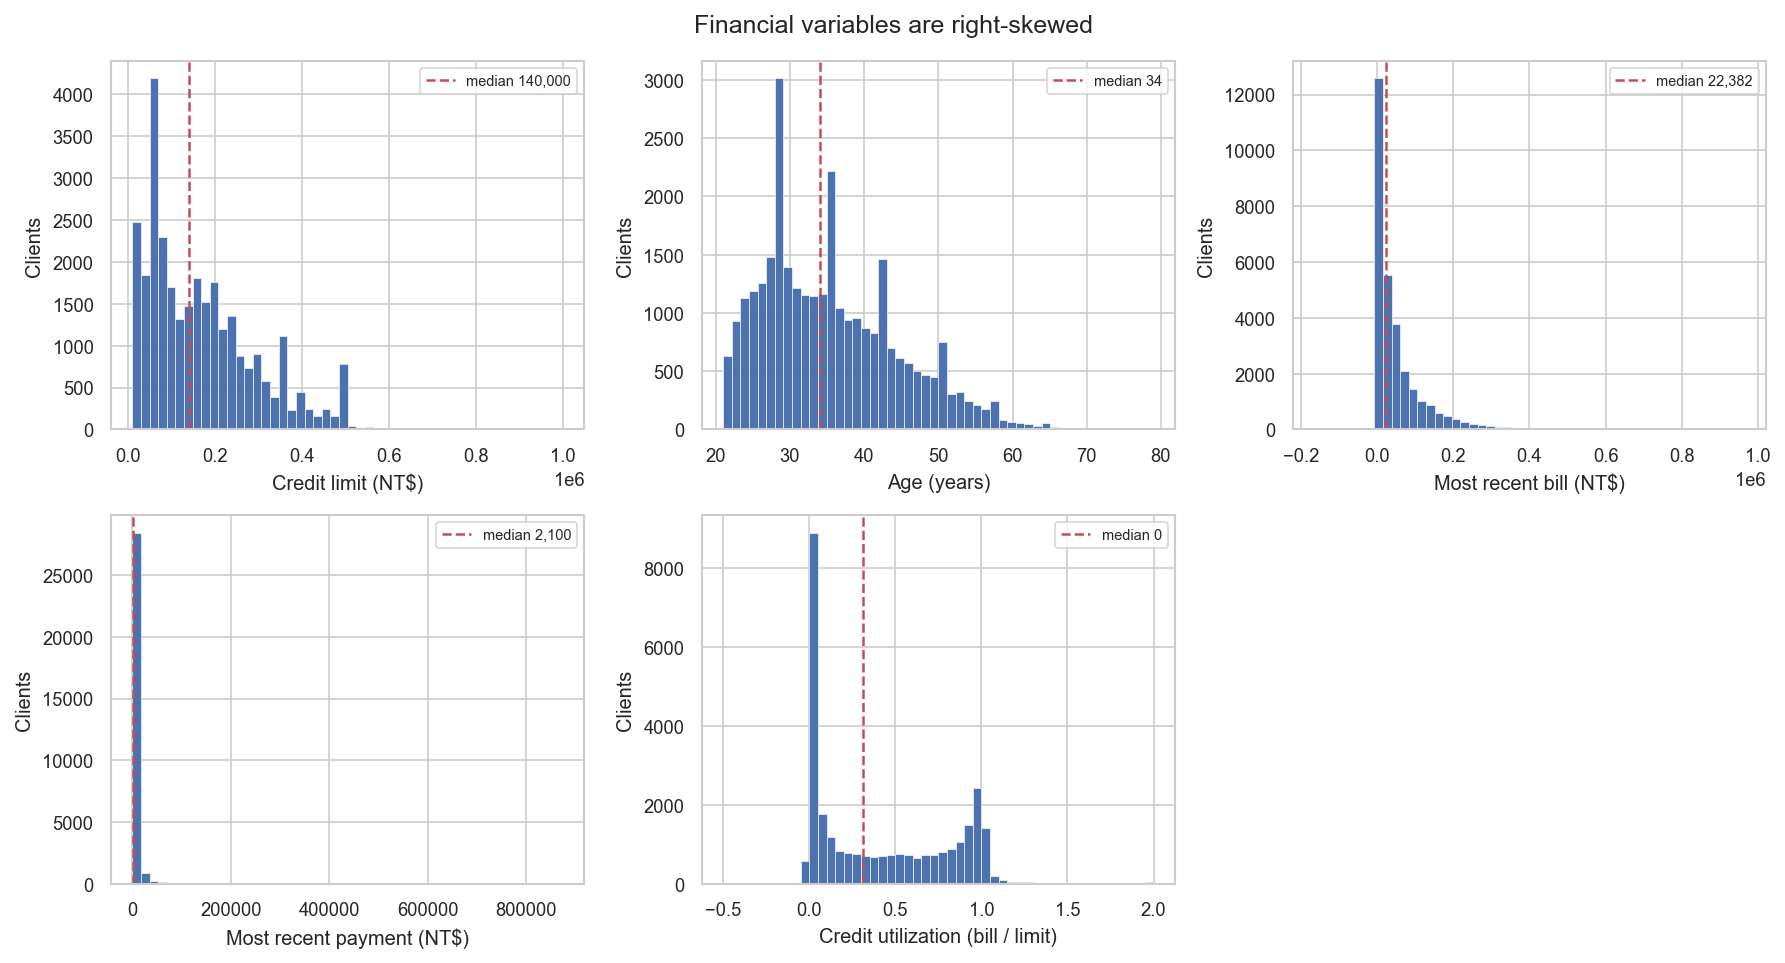
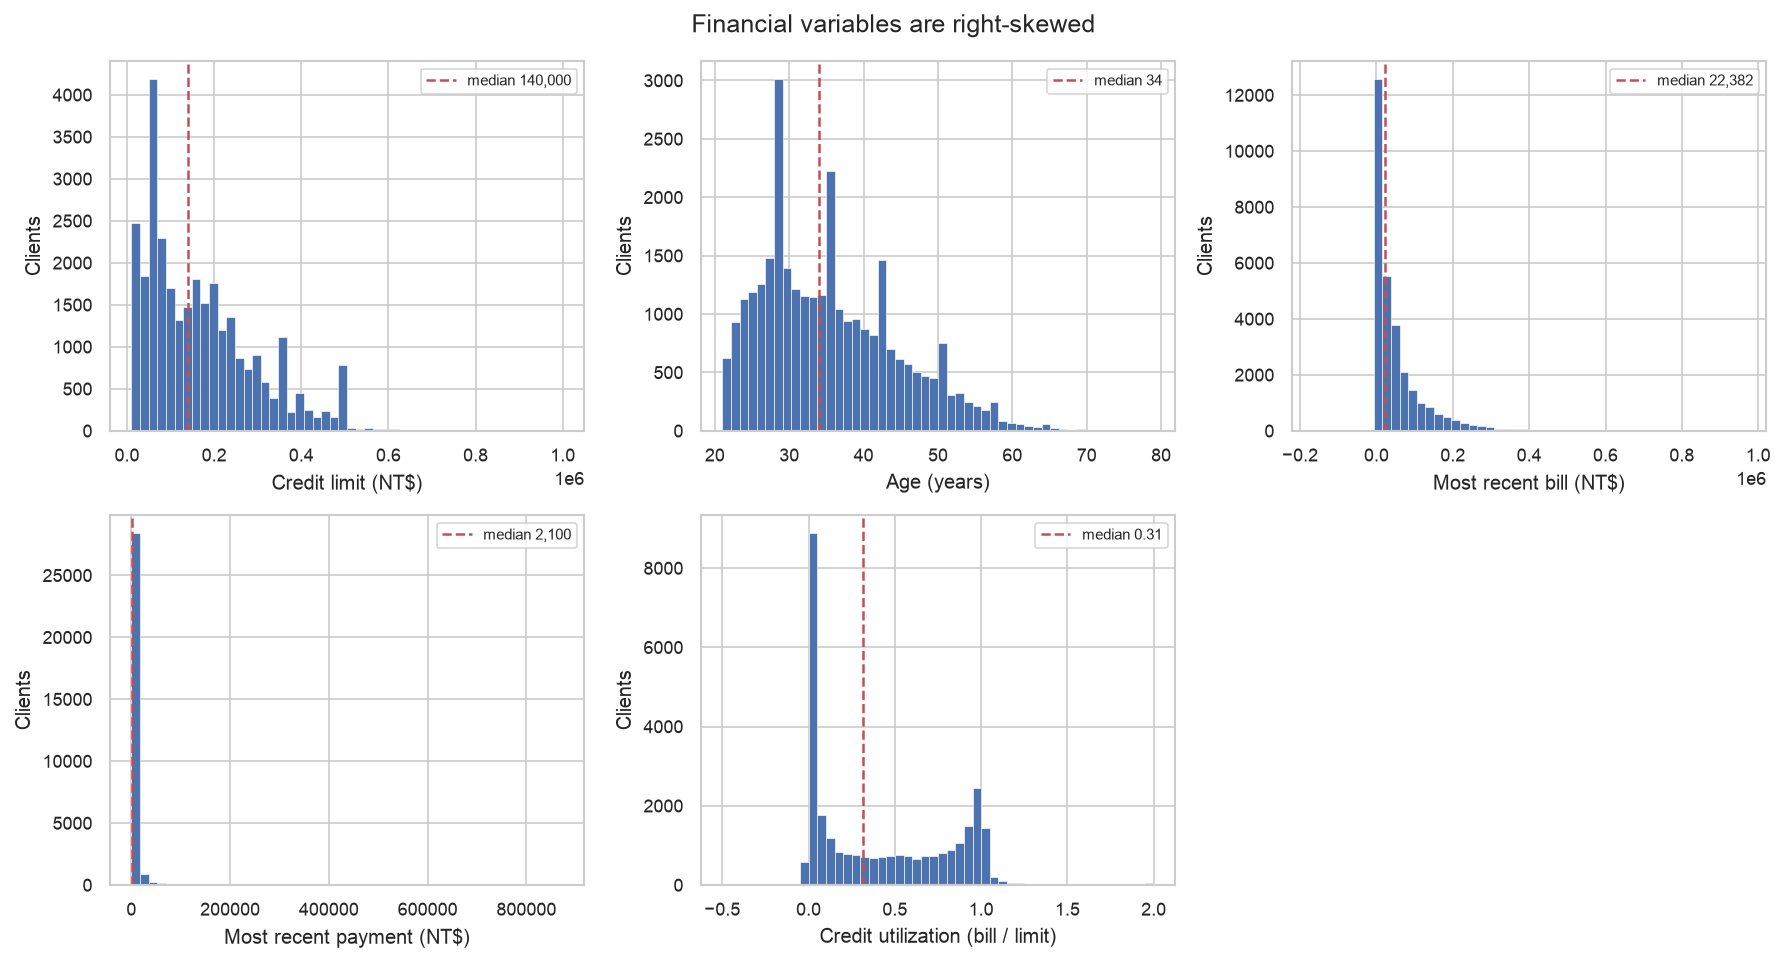
Correct EDA figures and refresh report numbers after outlier change
Two defects in the EDA figures:

- 02_distributions.png labelled credit utilisation as "median 0"; the
  ",.0f" format rounded the true median of 0.31 to zero. Ratios now
  print with two decimals.
- 07_temporal_dynamics.png was titled "Lateness is equally common each
  month, not equally costly". Both halves were wrong: the share of late
  customers rises from 10.3% in April to 22.7% in September, while the
  default rate among them stays between 50% and 56%.

Report section 3 still carried figures from before winsorisation was
removed. Refreshed against reports/eda_findings.md:

- payment-share table: all four rows (counts out by up to 1,332,
  rates by up to 2.7 points)
- the claim that band ordering was unstable, which the findings
  contradict; ordering is monotonic in all three months tested
- bill-column correlation floor 0.79 -> 0.80
- utilisation deciles 14.80/28.73 -> 14.83/28.63

Dropped the two caveats that described the figure defects now fixed.
eda_findings.md is unchanged, confirming the figure fixes moved no
numbers.

diff --git a/src/exploratory_analysis.py b/src/exploratory_analysis.py
@@ -233,8 +233,11 @@ def section_2_distributions(df: pd.DataFrame) -> None:
         if column == "UTILIZATION":
             data = data.clip(-0.5, 2.0)
         ax.hist(data, bins=50, color="#4C72B0", edgecolor="white", linewidth=0.3)
+        # UTILIZATION is a ratio near 0.3; ",.0f" would render its median as "0".
+        median_text = (f"median {data.median():,.2f}" if column == "UTILIZATION"
+                       else f"median {data.median():,.0f}")
         ax.axvline(data.median(), color="#C44E52", linestyle="--", linewidth=1.2,
-                   label=f"median {data.median():,.0f}")
+                   label=median_text)
         ax.set_xlabel(label)
         ax.set_ylabel("Clients")
         ax.legend(fontsize=7)
@@ -861,7 +864,7 @@ def section_7_temporal_dynamics(df: pd.DataFrame) -> None:
     axes[1].set_xticks(range(1, 7))
     axes[1].set_xticklabels(["Apr", "May", "Jun", "Jul", "Aug", "Sep"])
     axes[1].set_ylabel("Percent")
-    axes[1].set_title("Lateness is equally common each month, not equally costly")
+    axes[1].set_title("Lateness grows toward September; its cost stays flat")
     axes[1].legend(fontsize=8)
     fig.suptitle("When the delinquency happened matters", fontsize=12)
     fig.tight_layout()

diff --git a/reports/Final-Project-Report-Team-10.md b/reports/Final-Project-Report-Team-10.md
@@ -179,7 +179,7 @@ The last run finished with "All self-checks passed".
 
 ### 3.2 Money amounts are skewed
 
-Every money variable has a long tail to the right, with the mean above the median. The median credit limit is NT$140,000 against a mean of NT$167,484. The EDA therefore reports medians and uses rank-based tests where possible. (These histograms use the cleaned file with outliers preserved. The credit-utilization panel's "median 0" label is a rounding of the true median, about 0.31.)
+Every money variable has a long tail to the right, with the mean above the median. The median credit limit is NT$140,000 against a mean of NT$167,484. The EDA therefore reports medians and uses rank-based tests where possible. (These histograms use the cleaned file with outliers preserved.)
 
 ![Figure 3.2: Distribution of the main financial variables after cleaning.](figures/02_distributions.png)
 
@@ -234,25 +234,25 @@ Comparing the latest payment (`PAY_AMT1`) with the previous bill (`BILL_AMT2`) g
 
 | Share of bill repaid | Customers | Default rate |
 | -------------------- | --------- | ------------ |
-| Nothing              | 2,325     | 51.78%       |
-| Token (under 20%)    | 15,803    | 21.12%       |
-| Partial (20% to 99%) | 3,199     | 15.75%       |
-| In full              | 5,498     | 15.39%       |
+| Nothing              | 2,327     | 51.78%       |
+| Token (under 20%)    | 15,249    | 21.58%       |
+| Partial (20% to 99%) | 2,419     | 18.48%       |
+| In full              | 6,830     | 13.89%       |
 
 
-Paying nothing is the riskiest group in each of the three months tested (51.78%, 49.24% and 45.64%). The order of the other groups is not stable: partial payers default slightly more than full payers in the most recent month and slightly less in the other two. This measure uses amounts, so the status-code quirk does not affect it.
+Paying nothing is the riskiest group in each of the three months tested, and the ordering across all four bands is strictly monotonic in every one of them, so this is a stable behavioural signal rather than a one-month artefact. Customers who paid nothing default 3.7 times as often as those who cleared the balance (51.78% against 13.89%). This measure uses amounts, so the status-code quirk does not affect it.
 
 ![Figure 3.6: Default rate by share of the bill repaid (left), repeated for three months (right).](figures/06_payment_behaviour.png)
 
-Timing matters too. Customers late only in the two most recent months default at 41.64%. Customers late only in the two oldest months default at 25.97%. Customers late in both windows default at 65.58%, the highest of any group. Recent trouble therefore carries roughly 1.6 times the risk of old trouble. (The right-hand panel's title says lateness is equally common each month. The plotted line actually rises from about 10% in April to about 23% in September, so read the title with care.)
+Timing matters too. Customers late only in the two most recent months default at 41.64%. Customers late only in the two oldest months default at 25.97%. Customers late in both windows default at 65.58%, the highest of any group. Recent trouble therefore carries roughly 1.6 times the risk of old trouble. The right-hand panel shows why: the share of customers late climbs from 10.3% in April to 22.7% in September, while the default rate among those late customers stays flat between 50% and 56%. Lateness becomes more common closer to the prediction month, but its cost per late customer does not change.
 
 ![Figure 3.7: Default rate by timing of lateness (left) and monthly lateness versus default rate among late customers (right).](figures/07_temporal_dynamics.png)
 
 ### 3.7 Credit limit, utilization and relationships between columns
 
 - Customers who defaulted had a median credit limit of NT$90,000, against NT$150,000 for those who did not (Cohen's d = -0.38, the clearest gap among the continuous variables). Age shows a negligible gap (d = 0.03).
-- Default rises with credit utilization (bill divided by limit), from a low of 14.80% (the fourth-lowest tenth of customers) to 28.73% in the highest tenth.
-- The six bill columns are highly correlated with each other (0.79 to 0.95). Variance inflation factors range from about 9 to 16 across them, so a linear model would give unstable weights. Credit limit and age have values near 1.
+- Default rises with credit utilization (bill divided by limit), from a low of 14.83% (the fourth-lowest tenth of customers) to 28.63% in the highest tenth.
+- The six bill columns are highly correlated with each other (0.80 to 0.95). Variance inflation factors range from about 9 to 16 across them, so a linear model would give unstable weights. Credit limit and age have values near 1.
 
 ![Figure 3.8: Correlations between the main variables (left) and default rate by utilization decile (right).](figures/09_relationships.png)
 
